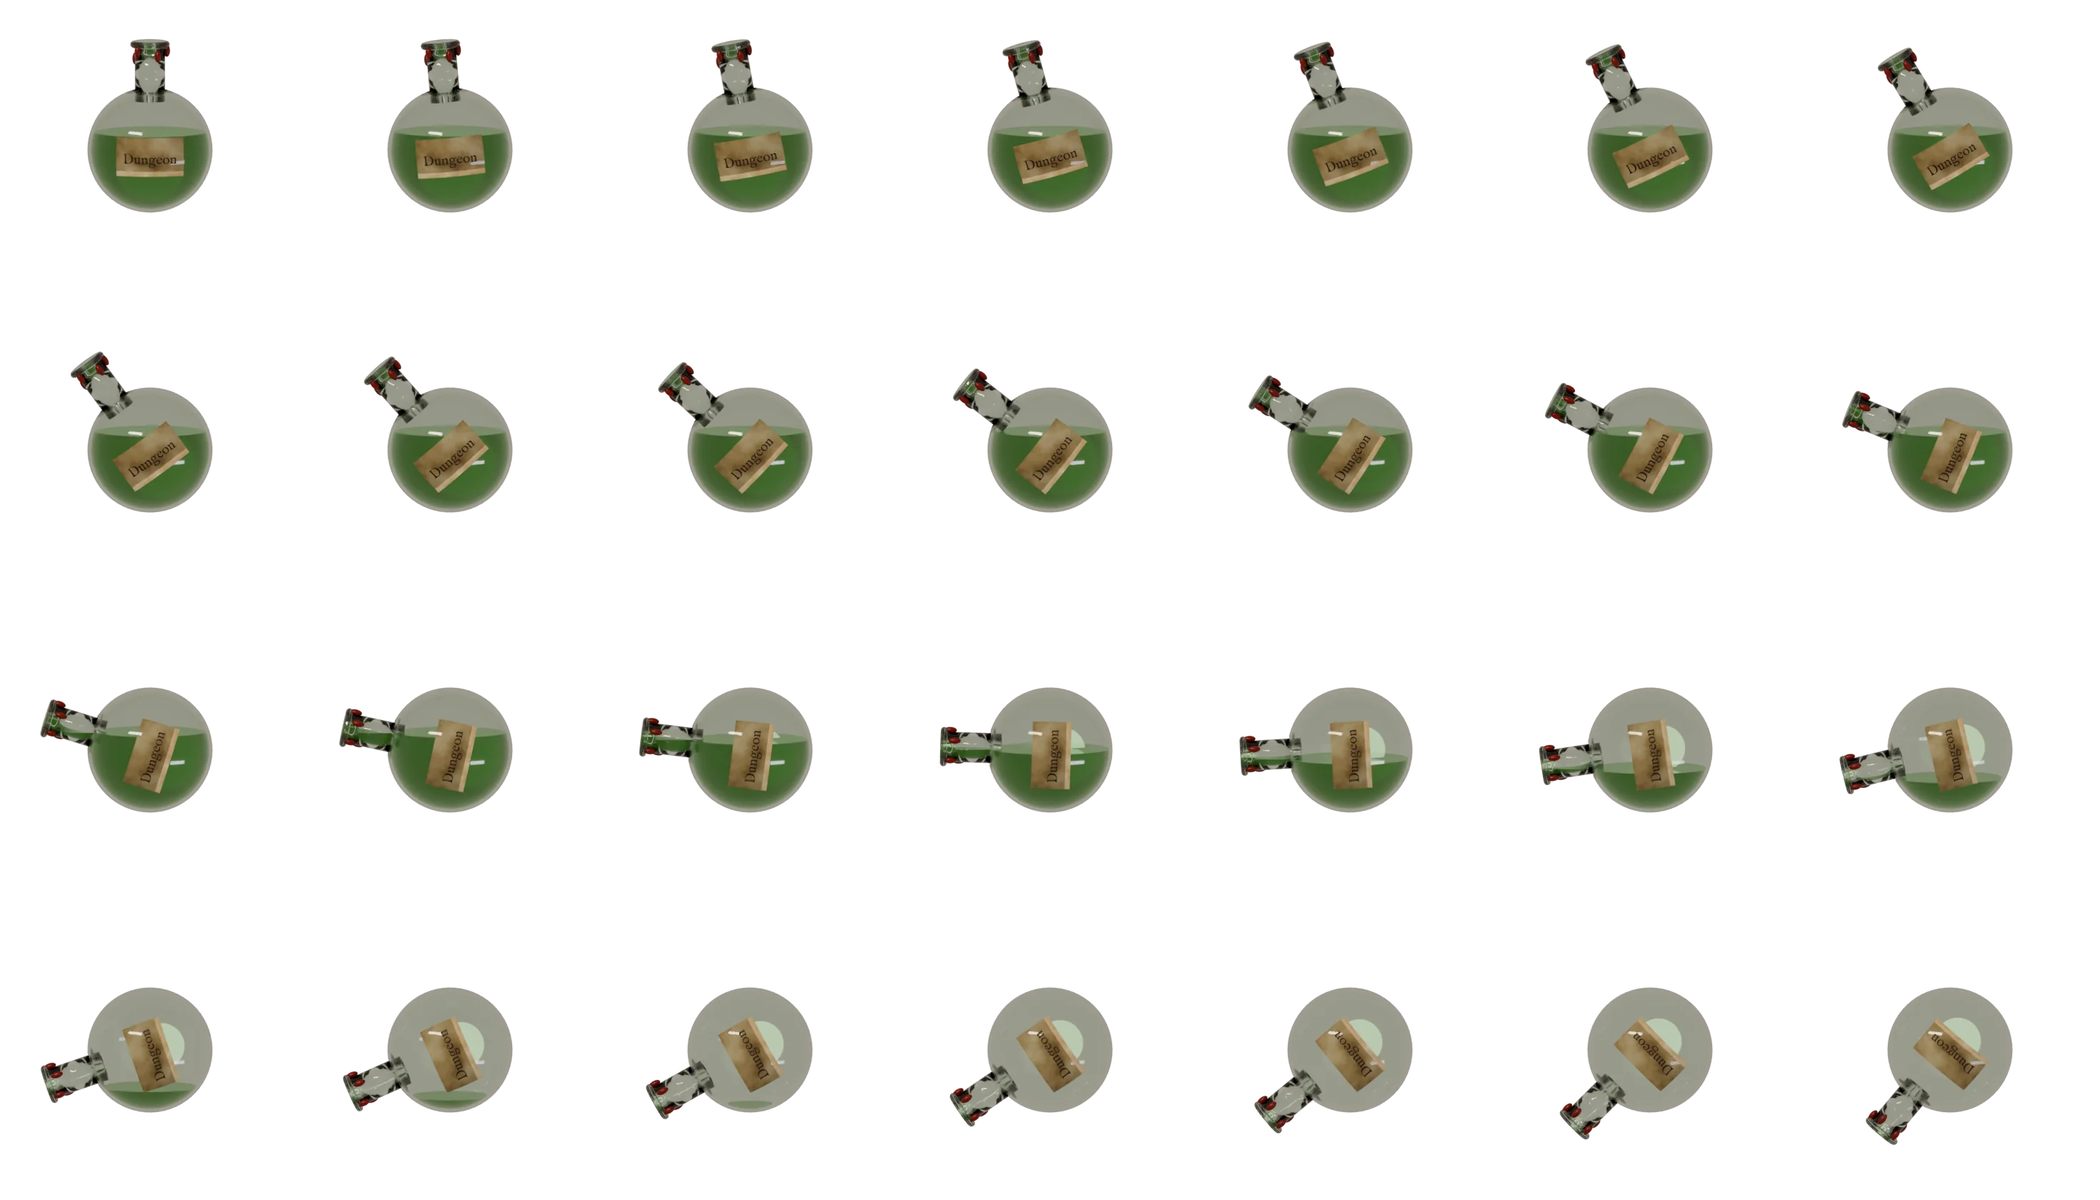
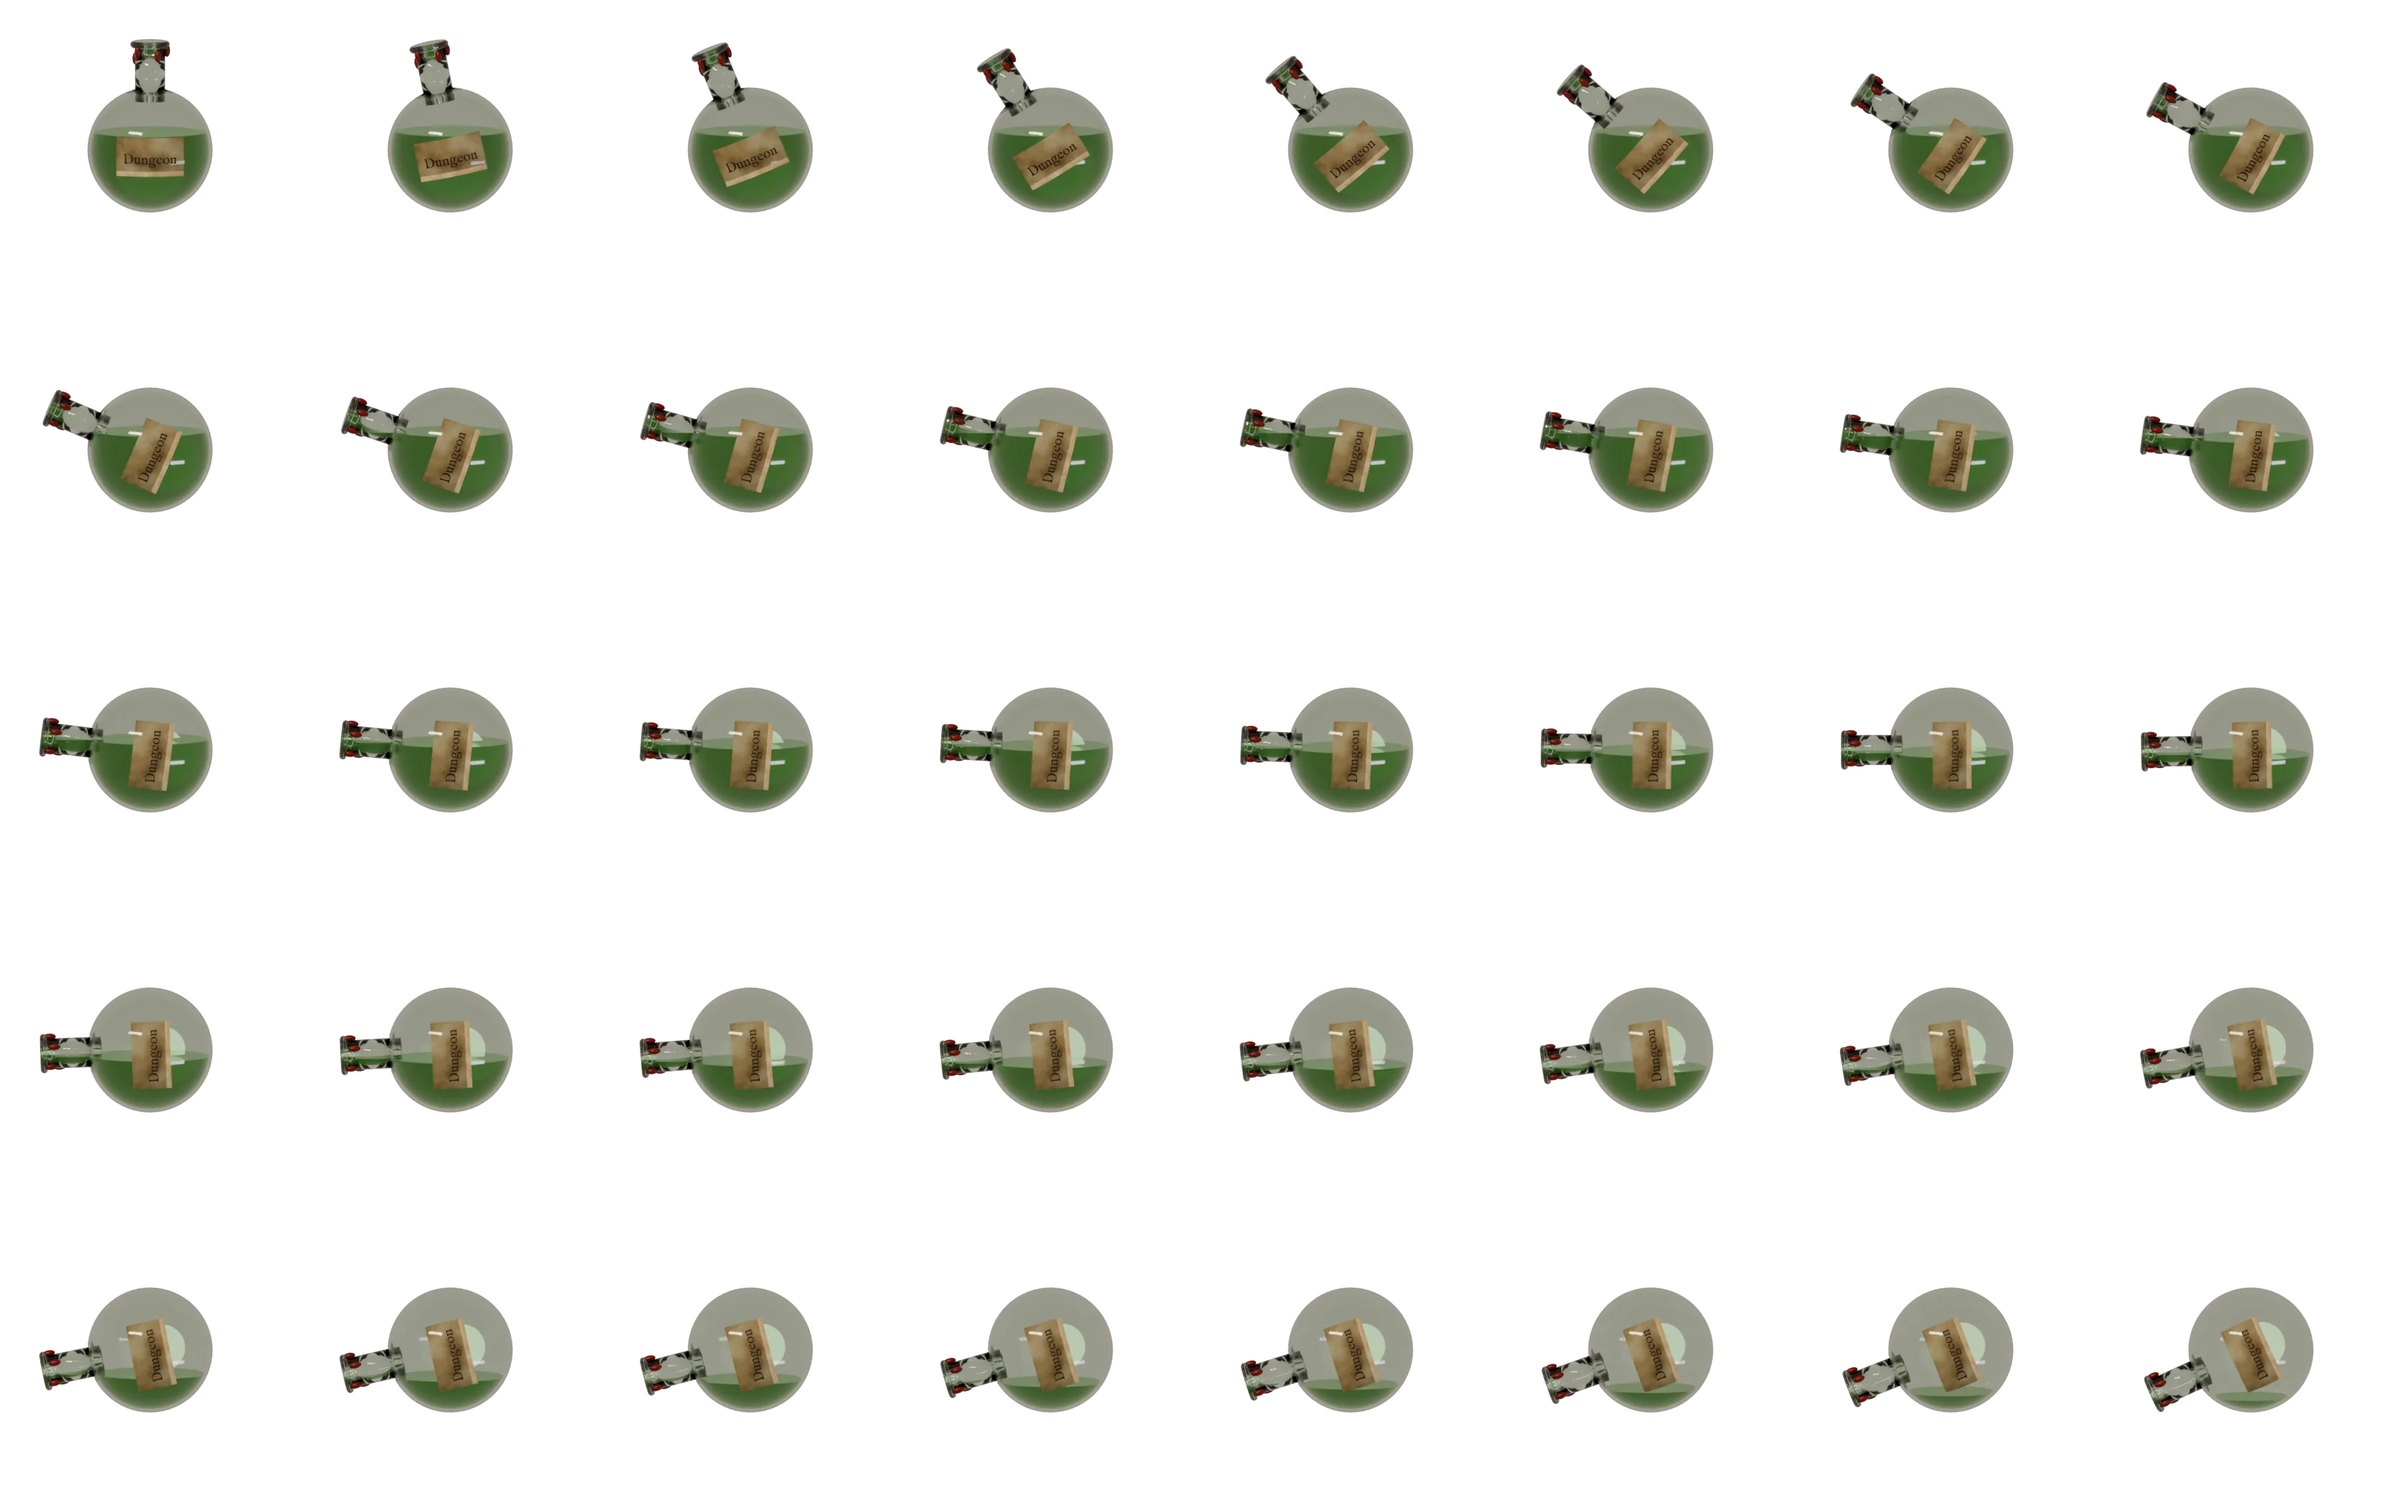
Potion pour: the bottle drains as it pours
The bottle is re-rendered as a timeline rather than a single tip: it tips until the brew reaches
the mouth, then drains steadily over the whole pour, tipping a little further each moment just as
far as it must to keep pouring. The stream follows it and thins as the bottle empties.

Claude-Session: https://claude.ai/code/session_01AorV6A1RpKrV1UJqfhHdYQ

diff --git a/game.js b/game.js
@@ -736,7 +736,7 @@ function pourShow(t, P) {
     const xs = top.map((v, i) => v == null ? null : i).filter(v => v != null), mid = xs[Math.floor(xs.length * 0.42)] || nb.w / 2;
 
     // ---- the bottle: placed so its mouth, mid-pour, is up and to the right of the middle of the name
-    const D = Math.min(230, VW * 0.56), PF = P.pour.findIndex(Boolean), FM = Math.min(P.n - 1, PF + 5);
+    const D = Math.min(230, VW * 0.56), PF = P.pour.findIndex(Boolean), FM = Math.min(P.n - 1, Math.round((PF + P.n - 1) / 2));
     const ax = P.axis[FM], spd0 = 95, g = 1500, fallH = 150;
     const tf = (-ax[1] * spd0 + Math.sqrt(Math.pow(ax[1] * spd0, 2) + 2 * g * fallH)) / g;
     const mouthAt = { x: nb.x + mid - ax[0] * spd0 * tf, y: nb.y + top[Math.round(mid)] - fallH };
@@ -772,7 +772,7 @@ function pourShow(t, P) {
       drips.push({ x: lx, y0: ly, L: 0, r: 0.8, rMax: R(2.3, 3.6), state: 0, grow: R(9, 16), vy: 0, y: 0, neck: 1 }); };
 
     const T0 = performance.now(); let last = T0, raf = 0;
-    const Tin = 900, Tpop = 2350, Ttilt0 = 2950, Ttilt1 = 4250, Tstop = 6500, Tleave = 6900, Tglow = 5200, Tsweep = 8500, Tabsorb = 8700, Tend = 9700;
+    const Tin = 900, Tpop = 2350, Ttilt0 = 2950, Ttilt1 = 3850, Tstop = 6700, Tleave = 7000, Tglow = 5200, Tsweep = 8500, Tabsorb = 8700, Tend = 9700;
     const easeIO = x => x < 0.5 ? 4 * x * x * x : 1 - Math.pow(-2 * x + 2, 3) / 2;
     const step = now => {
       const T = now - T0, dt = Math.min(0.033, (now - last) / 1000); last = now;
@@ -791,13 +791,17 @@ function pourShow(t, P) {
         for (let k = 0; k < 9; k++) wisps.push({ x: m.x + R(-3, 3), y: m.y, vx: R(-14, 14), vy: R(-50, -24), r: R(5, 10), a: R(0.25, 0.45), life: 0, max: R(1.1, 1.9) });
         for (let k = 0; k < 7; k++) sparks.push({ x: m.x + R(-10, 10), y: m.y + R(-16, 4), life: 0, max: R(0.5, 0.9), s: R(3, 6) });
       }
-      if (T > Ttilt0) { fpos = easeIO(Math.min(1, (T - Ttilt0) / (Ttilt1 - Ttilt0))) * (P.n - 1); showF(Math.round(fpos)); }
+      // the frames are a timeline: tipping until the brew reaches the mouth, then draining steadily while it pours
+      let drain = 0;
+      if (T > Ttilt0 && T <= Ttilt1) fpos = easeIO((T - Ttilt0) / (Ttilt1 - Ttilt0)) * (PF - 1);
+      else if (T > Ttilt1) { drain = Math.min(1, (T - Ttilt1) / (Tstop - Ttilt1)); fpos = PF - 1 + drain * (P.n - PF); }
+      if (T > Ttilt0) showF(Math.round(fpos));
       // the stream: how hard it runs follows whether the brew has reached the mouth, easing in and out
-      const pouring = fpos >= PF && T < Tstop;
+      const pouring = fpos >= PF - 0.5 && T < Tstop;
       flow += ((pouring ? 1 : 0) - flow) * Math.min(1, dt * (pouring ? 7 : 5));
       if (flow > 0.04 && T < Tstop + 600) {
         const m = mouth(), a = lerp(P.axis, fpos), sp = spd0 * (0.55 + 0.45 * flow);
-        stream.push({ id: sid++, x: m.x + a[0] * 2, y: m.y + a[1] * 2, vx: a[0] * sp + R(-4, 4), vy: a[1] * sp, w: 2.4 + 6.4 * flow, age: 0 });
+        stream.push({ id: sid++, x: m.x + a[0] * 2, y: m.y + a[1] * 2, vx: a[0] * sp + R(-4, 4), vy: a[1] * sp, w: (2.4 + 6.4 * flow) * (1 - 0.5 * drain), age: 0 });   // the stream thins as the bottle empties
       }
       for (const p of stream) {
         p.vy += g * dt; p.x += p.vx * dt; p.y += p.vy * dt; p.age += dt;

diff --git a/sw.js b/sw.js
@@ -2,7 +2,7 @@
 // The page itself: newest version first when online (so updates show on the next open), saved copy otherwise.
 // Everything else (look images, fonts, icons) is saved on the phone at install and served from there:
 // each release has a new VERSION, which re-downloads them once, so they're never fetched on a normal open.
-const VERSION = "study-v36";
+const VERSION = "study-v37";
 const COVERS = "study-covers"; // cover pictures from Open Library / Google Books, kept across updates
 const COVER_URL = /^https:\/\/(covers\.openlibrary\.org\/b\/|books\.google\.com\/books\/content|books\.googleusercontent\.com\/)/;
 const FILES = [
